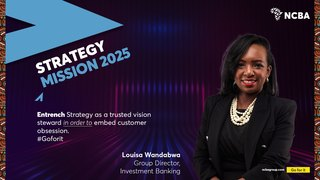
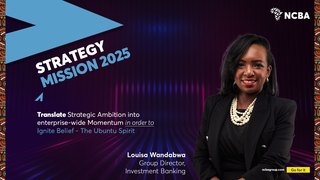
Refresh department artwork; retire the quote block
- 2 Monica Kihia / 5 Nelly Wainaina / 15 Louisa Wandabwa re-exported at
  13:53 today, after the previous evening's render. Re-rendered both the
  media feature images and the loop thumbnails. The Monica HR message is
  refreshed in all four places it appears.
- Every application of the short quote banner removed (index and Kenya).
  With no usages left the component is retired: CSS, the --fs-quote and
  --ncba-cyan-light tokens, and its entries in the brand guide, component
  specs and handoff are all gone.
- The Ubuntu texture now appears in exactly one CSS component, the
  campaign tag. Everywhere else it is baked into the artwork.

Changed region(s): [[0.0938, 0.6111, 0.5, 0.8056], [0.375, 0.8333, 0.5938, 0.9722]]

diff --git a/assets/css/ncba.css b/assets/css/ncba.css
@@ -18,7 +18,6 @@
   --ncba-purple-deep:  #1E032F;
   --ncba-cyan:         #5CA5D3;
   --ncba-cyan-dark:    #3B7FA8;
-  --ncba-cyan-light:   #9BCFEA;
   --ncba-yellow:       #F2E10E;
   --ncba-yellow-dark:  #D6C700;
 
@@ -52,7 +51,6 @@
   --fs-caption: .75rem;    /* 12px */
   --fs-nav:     .875rem;   /* 14px */
   --fs-btn:     .875rem;   /* 14px */
-  --fs-quote:   1.5rem;    /* 24px */
 
   /* Spacing — 4px base */
   --sp-1: 4px;  --sp-2: 8px;  --sp-3: 12px; --sp-4: 16px;
@@ -412,48 +410,6 @@ ul { margin: 0; padding: 0; list-style: none; }
   margin-top: var(--sp-2);
   font-size: var(--fs-caption); line-height: 16px; color: var(--muted);
 }
-
-/* --------------------------------------------------------------------------
-   10. Quote block
-   -------------------------------------------------------------------------- */
-/* The left rule is an 8px Ubuntu-pattern strip rather than the flat yellow
-   bar it replaced (decision D-035), matching the strip beside main-column
-   media. Drawn as ::after so it sits above the ::before texture ground; the
-   quote text is inset well clear of it, so nothing is obscured. */
-.quote {
-  position: relative; isolation: isolate; overflow: hidden;
-  margin: 0; padding: var(--sp-8) var(--sp-10);
-  background: var(--ncba-purple);
-  border-radius: var(--radius-lg);
-}
-.quote::after {
-  content: ""; position: absolute; left: 0; top: 0; bottom: 0; width: 8px;
-  background-image: url("../img/ubuntu-texture.jpg");
-  background-size: 400px;
-}
-/* .30 is the ceiling that keeps the white quote text at AAA over every pixel
-   of the pattern — .35 starts failing (decision D-024). */
-.quote::before {
-  content: ""; position: absolute; inset: 0; z-index: -1;
-  background-image: url("../img/ubuntu-texture.jpg");
-  background-size: 420px;
-  opacity: .30;
-}
-.quote__text {
-  margin: 0; position: relative; padding-left: 56px;
-  font-size: var(--fs-quote); font-weight: 400; line-height: 36px;
-  letter-spacing: -.01em; color: var(--on-dark);
-}
-.quote__text::before {
-  content: "\201C";
-  position: absolute; left: 0; top: -18px;
-  font-size: 72px; line-height: 1; color: var(--ncba-cyan); opacity: .55;
-}
-.quote__by { margin-top: var(--sp-5); padding-left: 56px; }
-.quote__name { display: block; font-size: var(--fs-h5); font-weight: 600; color: var(--on-dark); }
-/* Lightened from --ncba-cyan: over the denser pattern the standard cyan fell
-   to 2.9:1. This tint holds 4.6:1 (AA) on every pixel (decision D-024). */
-.quote__role { display: block; font-size: var(--fs-caption); line-height: 16px; color: var(--ncba-cyan-light); }
 
 /* --------------------------------------------------------------------------
    11. Blog-post loop — thumbnails locked to 320 x 180
@@ -819,11 +775,6 @@ a.events__title:hover { color: var(--ncba-magenta); text-decoration: none; }
   .carousel__cap { min-height: 0; }
   .carousel__btn--prev { left: var(--sp-1); }
   .carousel__btn--next { right: var(--sp-1); }
-
-  .quote { padding: var(--sp-6) var(--sp-5); }
-  .quote__text { padding-left: 0; padding-top: var(--sp-6); font-size: 1.25rem; line-height: 30px; }
-  .quote__text::before { top: -8px; font-size: 56px; }
-  .quote__by { padding-left: 0; }
 
   .help__grid { grid-template-columns: minmax(0, 1fr); }
   .doctiles { grid-template-columns: minmax(0, 1fr); }

diff --git a/index.html b/index.html
@@ -112,18 +112,6 @@
     </section>
 
     <section class="section">
-      <figure class="quote">
-        <blockquote class="quote__text">
-          Ubuntu is not a slogan we hang on a wall. It is the way we show up for each other on an ordinary Tuesday — and it is what our customers feel long before they read anything we publish.
-        </blockquote>
-        <figcaption class="quote__by">
-          <span class="quote__name">Monica Kihia</span>
-          <span class="quote__role">Group Director, HR and Culture</span>
-        </figcaption>
-      </figure>
-    </section>
-
-    <section class="section">
       <div class="carousel" aria-roledescription="carousel" aria-label="NCBA highlights">
         <div class="carousel__viewport">
           <div class="carousel__track" id="carouselTrack">

diff --git a/region-kenya.html b/region-kenya.html
@@ -148,18 +148,6 @@
       <p class="media__cap">Monica Kihia, Group Director, HR and Culture.</p>
     </section>
 
-    <section class="section">
-      <figure class="quote">
-        <blockquote class="quote__text">
-          The Kenya business is where a lot of our ideas get tested first. That is a responsibility and a privilege — what works here tends to travel, and so does what does not.
-        </blockquote>
-        <figcaption class="quote__by">
-          <span class="quote__name">Monica Kihia</span>
-          <span class="quote__role">Group Director, HR and Culture</span>
-        </figcaption>
-      </figure>
-    </section>
-
     <section class="section" id="news">
       <div class="section__head">
         <h2>News updates</h2>

diff --git a/brand/NCBA-brand-guide.md b/brand/NCBA-brand-guide.md
@@ -3,7 +3,7 @@
 Simplified brand and style guide for the NCBA Group SharePoint intranet redesign.
 **Every value in this document matches `assets/css/ncba.css` exactly.** Where the CSS uses a custom property, the token name is given.
 
-> **Ubuntu pattern:** the supplied artwork carries the pattern baked into its own edges (D-045). In CSS it appears in only two components — the campaign tag and the quote block. Do not add it beside images.
+> **Ubuntu pattern:** the supplied artwork carries the pattern baked into its own edges (D-045). In CSS it now appears in exactly one component — the campaign tag (`.chip`). Do not add it beside images.
 
 **Version:** 1.0 · **Date:** 2026-08-06
 
@@ -20,22 +20,21 @@ All hex values were **sampled directly from the supplied NCBA artwork**, not gue
 | `--ncba-magenta` | `#9F197E` | **Primary brand.** Site header bar, footer bar, active nav underline, primary buttons, tag chips, quick-link icon tiles | Header & footer bar, `Reference/ncba colours.png` |
 | `--ncba-magenta-dark` | `#7C1362` | Hover / pressed state for magenta buttons, links and cards | Derived (−12% lightness) |
 | `--ncba-magenta-light` | `#AC3990` | Hover for **quick-link buttons only** — SharePoint's ButtonCard lightens on hover rather than darkening | Derived (+14% white) |
-| `--ncba-magenta-tint` | `#F6E9F2` | Selected nav background, quote-block tint, subtle brand wash | Derived (8% magenta on white) |
+| `--ncba-magenta-tint` | `#F6E9F2` | Selected nav background, active dropdown item, subtle brand wash | Derived (8% magenta on white) |
 
 ### 1.2 Secondary
 
 | Token | Hex | Role | Sampled from |
 |---|---|---|---|
-| `--ncba-purple` | `#230B49` | **Secondary brand.** Suite bar, dark panel grounds, quote-block ground | KV banner ground |
+| `--ncba-purple` | `#230B49` | **Secondary brand.** Suite bar, dark panel grounds | KV banner ground |
 | `--ncba-purple-deep` | `#1E032F` | Gradient terminus, image overlay ground | KV banner ground |
 
 ### 1.3 Accent
 
 | Token | Hex | Role | Sampled from |
 |---|---|---|---|
-| `--ncba-cyan` | `#5CA5D3` | **Accent.** Links on dark grounds, "Learn more" arrows, eyebrow rules, attribution text | "THE NEW NCBA / UBUNTU HUB" banner headline |
+| `--ncba-cyan` | `#5CA5D3` | **Accent.** Links on dark grounds, "Learn more" arrows, eyebrow rules | "THE NEW NCBA / UBUNTU HUB" banner headline |
 | `--ncba-cyan-dark` | `#3B7FA8` | Accent hover | Derived (−15% lightness) |
-| `--ncba-cyan-light` | `#9BCFEA` | Attribution text on the textured quote ground, where the standard cyan falls below AA | Derived (+30% lightness) |
 | `--ncba-yellow` | `#F2E10E` | **"Go for it" CTA** — reserved for the primary call-to-action button only | "Go for it" badge on every KV banner |
 | `--ncba-yellow-dark` | `#D6C700` | CTA hover | Derived (−10% lightness) |
 
@@ -116,7 +115,6 @@ Root font-size is `16px`, so `1rem = 16px`.
 | Caption / meta / byline | `--fs-caption` | 12 | 0.75 | 400 | 16px (1.333) | 0 |
 | Nav | `--fs-nav` | 14 | 0.875 | 600 | 20px (1.429) | 0 |
 | Button | `--fs-btn` | 14 | 0.875 | 600 | 20px (1.429) | 0.01em |
-| Quote | `--fs-quote` | 24 | 1.5 | 400 | 36px (1.5) | −0.01em |
 
 **Weights used:** 400 regular · 600 semibold · 700 bold. No light or black weights — Segoe UI's light weights are unreliable across platforms.
 
@@ -162,7 +160,7 @@ Root font-size is `16px`, so `1rem = 16px`.
 |---|---|---|
 | `--radius-sm` | 2px | Buttons, tag chips — matches SharePoint's control radius |
 | `--radius-md` | 4px | Cards, images, quick-link icon tiles |
-| `--radius-lg` | 8px | Quote block |
+| `--radius-lg` | 8px | Region/department dropdown panels |
 
 ### 4.2 Elevation
 
@@ -237,19 +235,6 @@ The boxed document-link list used for text-only widgets, matching the widget idi
 | Hover | Border → `--ncba-magenta`, background `--ncba-magenta-tint`, label → `--ncba-magenta` |
 | Gap between rows | `--sp-2` (8px) |
 
-### 5.4 Quote block
-
-| Property | Value |
-|---|---|
-| Ground | `--ncba-purple` with `ubuntu-texture.jpg` at `opacity: .30`, `background-size: 420px`, applied via a `::before` layer so it stays decorative |
-| Radius | `--radius-lg` (8px) |
-| Padding | `--sp-8` `--sp-10` (32px 40px) |
-| Quote mark | `"` 72px, `--ncba-cyan`, `opacity: .55` |
-| Quote text | `--fs-quote` (24px / 400 / 36px) / `#FFFFFF` |
-| Attribution name | `--fs-h5` (14px / 600) / `#FFFFFF` |
-| Attribution role | `--fs-caption` (12px / 400) / `--ncba-cyan-light` |
-| Left rule | 8px Ubuntu-pattern strip (`.quote::after`, `background-size: 400px`) — replaced the flat yellow bar |
-
 ### 5.5 Video thumbnail
 
 | Property | Value |
@@ -301,9 +286,8 @@ Carries the **Ubuntu pattern** behind a purple tint, so the tag reads as an NCBA
 | `hero-banner` | **1920 × 310** | 6.19:1 | Page header banner, all 7 pages — **full-bleed across the viewport** | Centre; photographs anchored 0.18 from top |
 | `media-16x9` | **940 × 529** | 16:9 | Carousel slides · video thumbnails · full-width feature images · article hero | 1920×1080 sources used uncropped |
 | `loop-thumb` | **320 × 180** | 16:9 | Blog-loop side image, news and video variants | 1:1 sources top-anchored |
-| `sidebar-tile` | **288 × 162** | 16:9 | Sidebar widget imagery | 1:1 sources top-anchored |
 
-**Why these numbers:** `hero-banner` is the exact native size of the supplied NCBA intranet banners. Because the banner runs full-bleed across the viewport (not inside the 1300px canvas), rendering at native 1920 × 310 means it is never upscaled at common desktop widths. `media-16x9` is the main column width (940px) at the native 16:9 of the supplied 1920 × 1080 key visuals, so that artwork is never cropped and its headline text is never clipped. `loop-thumb` and `sidebar-tile` hold the same 16:9 so every rounded image on the page shares one shape language.
+**Why these numbers:** `hero-banner` is the exact native size of the supplied NCBA intranet banners. Because the banner runs full-bleed across the viewport (not inside the 1300px canvas), rendering at native 1920 × 310 means it is never upscaled at common desktop widths. `media-16x9` is the main column width (940px) at the native 16:9 of the supplied 1920 × 1080 key visuals, so that artwork is never cropped and its headline text is never clipped. `loop-thumb` holds the same 16:9 so every rounded image on the page shares one shape language. (The `sidebar-tile` slot was retired in D-042 when the sidebar became text-only quick links.)
 
 Every `<img>` carries explicit `width` and `height` attributes matching its slot, so pages reserve layout space and do not reflow as images decode.
 

diff --git a/docs/handoff.md b/docs/handoff.md
@@ -29,9 +29,9 @@ Links with no page behind them resolve to an in-page anchor (`#main`, `#news`, `
 ## 2. File map
 
 ```
-index.html                Group home (L1) — banner, carousel, Ubuntu video, quote, 5 news, help
+index.html                Group home (L1) — banner, GMD video, HR banner, carousel, Ubuntu video, 5 news, help
 connect-with-john.html    GMD page (L1) — CEO banner, 5 video-thumbnail articles
-region-kenya.html         Kenya (L2) — country banner + CSS flag, GMD video, quote, 5 news
+region-kenya.html         Kenya (L2) — country banner + CSS flag, GMD video, HR banner, 5 news
 kenya-mcc.html            Marketing, Communications & Citizenship (L3)
 kenya-strategy.html       Strategy (L3) — Louisa Wandabwa feature + strategy video
 kenya-hr.html             Human Resources (L3)
@@ -41,13 +41,12 @@ assets/css/ncba.css       The single stylesheet. All design tokens live at the t
 assets/img/hero/          7 banners      — 1920 x 310
 assets/img/media/         12 main-column images — 940 x 529
 assets/img/loop/          20 blog thumbnails    — 320 x 180
-assets/img/tile/          5 sidebar images      — 288 x 162
-assets/img/ncba-logo-white.png   244 x 86, transparent
-assets/img/ubuntu-texture.jpg    CSS background for quote block and campaign tags
+assets/img/ncba-logo-white.png   233 x 85, transparent
+assets/img/ubuntu-texture.jpg    CSS background for the campaign tags
 
 brand/NCBA-brand-guide.md Colour, type, spacing, grid, component tokens, image table
 docs/implementation-plan.md  Phased build plan with status
-docs/decisions.md            Dated decision log (D-001 … D-023)
+docs/decisions.md            Dated decision log (D-001 … D-049)
 docs/component-specs.md      Per-component markup, classes, dimensions, responsive
 docs/check.py                Automated acceptance checker — see §5
 docs/handoff.md              This file
@@ -70,7 +69,6 @@ The mockup was designed against real SharePoint web parts, so most of it maps 1:
 | **Hero banner** | **Image web part, full-width section** | Must be placed in a **full-width section**, which requires the page layout to have one enabled. The title bar below it is a Text web part on a coloured full-width section. |
 | Carousel | Hero web part (carousel layout) or News carousel | Native hero supports 5 tiles. Captions come from the item, not from the image. |
 | Video thumbnail | Stream / Embed web part, or File viewer | The mockup uses a still + play button because there is no video file. Swap for the real Stream embed. |
-| Quote block | Text web part with custom formatting | The Ubuntu pattern background needs either a section background image or a small CSS extension. |
 | **Blog-post loop** | **News web part, "List" layout** | The closest native match. Campaign tags map to a managed metadata column surfaced via a page-property; if that is too heavy, use the News category field. |
 | Campaign tag chip | — | No native equivalent with a textured fill. Either accept a flat brand colour or add an SPFx extension. **This is the one component that cannot be done with out-of-the-box web parts alone.** |
 | **Quick Links buttons** | **Quick Links web part, Button layout** | Exactly what the mockup replicates — see `Reference/PAGES/Test Site - Sidebar Quick links.html`, "Active programs" section. Icons come from the Fluent icon set. |
@@ -131,7 +129,6 @@ It needs Python 3 and Pillow (`pip install pillow`). Without Pillow it still run
 | `hero-banner` | 1920 × 310 | page banner, all 7 pages, full-bleed |
 | `media-16x9` | 940 × 529 | carousel, video thumbnails, feature images, article hero |
 | `loop-thumb` | 320 × 180 | blog-loop side image |
-| `sidebar-tile` | 288 × 162 | sidebar imagery |
 
 If you add an image, generate it at the slot size or the checker will fail. The regeneration rules — including that 1:1 sources are cropped **top-anchored** so headlines are not decapitated — are in `decisions.md` D-009 and D-010.
 

diff --git a/docs/component-specs.md b/docs/component-specs.md
@@ -7,18 +7,17 @@ Design tokens (`--ncba-magenta`, `--sp-4`, …) are defined in `brand/NCBA-brand
 
 ## 0. Locked image dimensions — binding table
 
-**One dimension per slot, across all 7 pages.** Verified against the files on disk in Phase 4.
+**Three slots. One dimension per slot, across all 7 pages.** Verified against the files on disk in Phase 4.
 
 | Slot | CSS class | Locked size | Ratio | Used by | Crop rule |
 |---|---|---|---|---|---|
 | Hero banner | `.hero__img` | **1920 × 310** | 6.19:1 | Page header banner, all 7 pages — **full-bleed** | Centre; photographs anchored 0.18 from top |
 | Main-column media | `.media__img` | **940 × 529** | 16:9 | Carousel slides · video thumbnails · full-width feature images · article hero | 1920 × 1080 sources uncropped |
 | Loop thumbnail | `.loop__img` | **320 × 180** | 16:9 | Blog-loop side image (news **and** video variants) | 1:1 sources top-anchored |
-| Sidebar tile | `.tile__img` | **288 × 162** | 16:9 | Sidebar widget imagery | 1:1 sources top-anchored |
 
 Every `<img>` carries explicit `width` and `height` attributes equal to its slot size, so layout space is reserved before decode and pages do not reflow.
 
-**Output directories** mirror the slots: `assets/img/hero/`, `assets/img/media/`, `assets/img/loop/`, `assets/img/tile/`, plus `assets/img/ncba-logo-white.png`.
+**Output directories** mirror the slots: `assets/img/hero/`, `assets/img/media/`, `assets/img/loop/`, plus `assets/img/ncba-logo-white.png` and `assets/img/ubuntu-texture.jpg` (a CSS background, not a slot).
 
 ---
 
@@ -65,7 +64,7 @@ All inline SVG, 20px, `currentColor` white. Search is a non-submitting `<input t
 ```html
 <header class="sitehead">
   <a class="sitehead__brand" href="index.html">
-    <img src="assets/img/ncba-logo-white.png" alt="NCBA" width="88" height="26">
+    <img src="assets/img/ncba-logo-white.png" alt="NCBA" width="71" height="26">
     <span class="sitehead__title">Ubuntu Hub</span>
   </a>
   <nav class="sitehead__nav" aria-label="Main">
@@ -187,22 +186,6 @@ Slides **940 × 529**. Track is `display:flex` with `transform: translateX(-100%
 ```
 
 Image **940 × 529**. `.media__play` is a 64px circle, `rgba(255,255,255,.92)`, centred, containing a 22px magenta CSS triangle. Hover: circle → `#FFFFFF`, `scale(1.06)`. The whole tile is one link, so there is a single tab stop.
-
----
-
-## 8. Quote block — `.quote`
-
-```html
-<figure class="quote">
-  <blockquote class="quote__text">…</blockquote>
-  <figcaption class="quote__by">
-    <span class="quote__name">Monica Kihia</span>
-    <span class="quote__role">Group Director, HR and Culture</span>
-  </figcaption>
-</figure>
-```
-
-Full width of the main column. Ground `--ncba-purple` with `assets/img/tile/ubuntu-texture.png` as a CSS `background-image` at `opacity:.14` / `background-size:420px` — applied via a `::before` layer so it is decorative and invisible to screen readers. 8px Ubuntu-pattern left strip (`.quote::after`), `--radius-lg`, padding 32px 40px. Quote `--fs-quote` white; name 14/600 white; role 12/400 `--ncba-cyan`.
 
 ---
 

diff --git a/docs/implementation-plan.md b/docs/implementation-plan.md
@@ -15,7 +15,7 @@ This document is the single source of truth for the build. It is updated as work
 |---|---|---|
 | 1 | The forbidden competitor name must not appear in any output file, in any case | `docs/check.py` greps the whole tree in Phase 4. **This document deliberately never spells the name out** — the acceptance grep covers `docs/` too, so writing it here would fail the check. `check.py` assembles it from fragments for the same reason. |
 | 2 | No fabricated assets — every `<img src>` resolves to a real file | All images generated by script from measured sources; automated asset check in Phase 4 |
-| 3 | One locked dimension per image slot | Four slots only (§4); every file written by the same `cover()` routine at a fixed size |
+| 3 | One locked dimension per image slot | Three slots (§4); every file written by the same `cover()` routine at a fixed size |
 | 4 | Static only — hand-written HTML + one CSS file, relative paths | No build step, no framework, no CDN. Only JS is a ~30-line inline carousel on `index.html` |
 | 5 | Build only what is specified | No extra pages, no abstractions |
 | 6 | Never modify or delete anything in `Reference/` or `Images/` | Sources are opened read-only; all output goes to `assets/`, `docs/`, `brand/`, and the 7 root HTML files |
@@ -49,9 +49,9 @@ The brief's paths did not match disk. These are the real ones, used throughout:
 | `kenya-hr.html` | L3 | Human Resources | ☑ |
 | `article.html` | L4 | Full post view — every loop card lands here | ☑ |
 | `assets/css/ncba.css` | — | The single stylesheet | ☑ |
-| `assets/img/` | — | Processed images, 4 locked sizes | ☑ (45 files) |
+| `assets/img/` | — | Processed images, 3 locked sizes | ☑ (37 files) |
 | `docs/implementation-plan.md` | — | This file | ☑ |
-| `docs/decisions.md` | — | Dated decision log | ☑ (D-001…D-038) |
+| `docs/decisions.md` | — | Dated decision log | ☑ (D-001…D-050) |
 | `docs/component-specs.md` | — | Per-component markup/CSS/dimension spec | ☑ |
 | `docs/handoff.md` | — | How to open it; SharePoint rebuild notes | ☑ |
 | `brand/NCBA-brand-guide.md` | — | Colour, type, spacing, tokens, image table | ☑ |
@@ -159,7 +159,7 @@ Blocks are built top-to-bottom in this exact order.
 1. Header banner "Welcome to the NCBA Ubuntu Hub" — `hero-banner`
 2. Carousel — GMD message slide + 3 more — `media-16x9`
 3. Ubuntu video thumbnail, main column full width — `media-16x9`
-4. Monica Kihia quote block, full width (Ubuntu texture ground)
+4. Monica Kihia HR banner, full width
 5. NEWS — blog-post loop, 5 stacked articles, flow per the reference
 6. We're Here to Help
 7. NCBA footer
@@ -173,7 +173,7 @@ Blocks are built top-to-bottom in this exact order.
 **`region-kenya.html`** — Regional sidebar
 1. Kenya banner — `hero-banner` + CSS Kenyan flag band + "Karibu Kenya" overlay
 2. GMD messaging video thumbnail — `media-16x9`
-3. Monica Kihia quote block, full width
+3. Monica Kihia HR banner, full width
 4. NEWS loop, 5 articles
 5. We're Here to Help · 6. Footer
 

diff --git a/docs/decisions.md b/docs/decisions.md
@@ -335,5 +335,23 @@ The hero is **full-bleed**, so at any viewport wider than the image the browser 
 
 The five other heroes are consequently derived from 1448-wide sources at 1920 x 310. If sharper versions of the Gachora or department banners exist at 1920 x 310, dropping them in and re-running the build is all that is needed.
 
+### D-049 · Department artwork refreshed again
+`2 Monica Kihia.png`, `5 Nelly Wainaina.png` and `15 Louisa Wandabwa 1.png` were re-exported at 13:53 on 2026-08-11, after the generated copies were built at 18:31 the previous evening. Re-rendered — both the `media` feature images and the `loop` thumbnails.
+
+Worth noting how this was caught: comparing modification times **across the date boundary**. A same-day comparison would have read 13:53 as older than 18:31 and concluded nothing had changed.
+
+The Monica HR message now appears in four places, all refreshed: the full-width banner on `index.html` and `region-kenya.html`, the feature image on `kenya-hr.html`, and the loop thumbnail on `kenya-hr.html` and `article.html`.
+
+### D-050 · Quote block retired
+Every application of the short quote banner was removed — it appeared on `index.html` and `region-kenya.html`. With no usages left, the component was retired rather than left as dead CSS:
+
+- `.quote`, `.quote::before`, `.quote::after`, `.quote__text`, `.quote__by`, `.quote__name`, `.quote__role` and their responsive rules deleted
+- `--fs-quote` and `--ncba-cyan-light` removed — the quote block was their only consumer
+- Section removed from `component-specs.md` and the brand guide; the SharePoint mapping row dropped from `handoff.md`
+
+**Consequence:** the Ubuntu texture now appears in exactly **one** CSS component, the campaign tag (`.chip`). Everywhere else the pattern comes baked into the artwork (D-045). Verified: one `ubuntu-texture` reference remains in the stylesheet.
+
+Home page is now: GMD video -> Monica HR banner -> carousel -> Ubuntu Spirit video -> news -> help. Kenya: GMD video -> Monica HR banner -> news -> help.
+
 ### D-019 · The acceptance grep covers `docs/` too
 Running the checker revealed that `implementation-plan.md`, `decisions.md` and `check.py` all contained the forbidden competitor name **while documenting the rule forbidding it** — which would have failed `grep -ril` over the tree. All three now refer to it only obliquely, and `check.py` assembles the search term from fragments at runtime. Caught by tooling, not by eye; a good argument for writing the checker before the pages.
